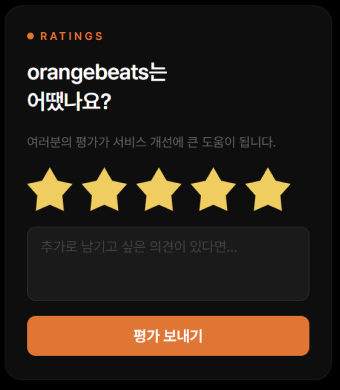
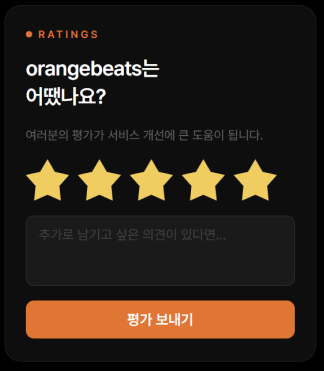
png수정

diff --git a/frontend/site/src/styles/site.css b/frontend/site/src/styles/site.css
@@ -128,13 +128,15 @@ button {
   align-items: center;
   gap: 8px;
   margin: 0;
-  padding: 4px 0;
+  padding: 0;
   border: none;
   background: transparent;
   color: #ffffff;
+  font-family: "Pretendard", "Gowun Dodum", sans-serif;
   font-size: 16px;
   font-weight: 500;
-  line-height: 1.2;
+  line-height: 27.2px;
+  height: 28px;
   letter-spacing: -0.32px;
   cursor: pointer;
   white-space: nowrap;
@@ -208,37 +210,31 @@ button {
   display: inline-flex;
   align-items: center;
   justify-content: center;
-  gap: 6px;
+  gap: 8px;
   margin: 0;
   box-sizing: border-box;
-  min-height: 28px;
-  padding: 4px 10px;
-  border: 1px solid rgba(255, 255, 255, 0.12);
-  border-radius: 999px;
-  background: rgba(255, 255, 255, 0.05);
+  height: 28px;
+  padding: 0;
+  border: none;
+  border-radius: 0;
+  background: transparent;
   color: #ffffff;
-  font-family: "Pretendard", sans-serif;
-  font-size: 12px;
+  font-family: "Pretendard", "Gowun Dodum", sans-serif;
+  font-size: 16px;
   font-weight: 500;
-  line-height: 1;
-  letter-spacing: -0.24px;
+  line-height: 27.2px;
+  letter-spacing: -0.32px;
   cursor: pointer;
   white-space: nowrap;
-  transition:
-    background 0.15s ease,
-    border-color 0.15s ease,
-    box-shadow 0.15s ease;
 }
 
-.site-header__spotify-connect:hover:not(:disabled) {
-  background: rgba(29, 185, 84, 0.16);
-  border-color: rgba(29, 185, 84, 0.55);
-  box-shadow: 0 0 0 1px rgba(29, 185, 84, 0.12);
+.site-header__spotify-connect:hover:not(:disabled) .site-header__spotify-connect-label {
+  text-decoration: underline;
+  text-underline-offset: 3px;
 }
 
-.site-header__spotify-connect:active:not(:disabled) {
-  background: rgba(29, 185, 84, 0.22);
-  border-color: rgba(29, 185, 84, 0.65);
+.site-header__spotify-connect:active:not(:disabled) .site-header__spotify-connect-label {
+  color: var(--figma-orange);
 }
 
 .site-header__spotify-connect:focus-visible {
@@ -254,7 +250,7 @@ button {
 .site-header__spotify-connect-label {
   display: inline-flex;
   align-items: center;
-  line-height: 1;
+  line-height: 27.2px;
   padding: 0;
 }
 
@@ -262,8 +258,8 @@ button {
   display: inline-flex;
   align-items: center;
   justify-content: center;
-  width: 20px;
-  height: 20px;
+  width: 18px;
+  height: 18px;
   border-radius: 50%;
   background: #1db954;
   flex-shrink: 0;
@@ -271,8 +267,8 @@ button {
 
 .site-header__spotify-mark svg {
   display: block;
-  width: 12px;
-  height: 12px;
+  width: 11px;
+  height: 11px;
   color: #ffffff;
 }
 
@@ -682,7 +678,7 @@ a.figma-spotify-connect {
 }
 
 .home-howto-shot--ratings {
-  --home-howto-w: 340px;
+  --home-howto-w: 324px;
 }
 
 .site-info {
@@ -5014,8 +5010,15 @@ a.figma-spotify-connect {
     top: auto;
   }
 
-  .site-header__spotify-trigger {
+  .site-header__spotify-trigger,
+  .site-header__spotify-connect {
     font-size: 14px;
+    line-height: 24px;
+    height: 24px;
+  }
+
+  .site-header__spotify-connect-label {
+    line-height: 24px;
   }
 
   .site-header__nav {

diff --git a/frontend/site/src/pages/HomePage.jsx b/frontend/site/src/pages/HomePage.jsx
@@ -5,8 +5,10 @@ import SiteHeader from "../components/SiteHeader.jsx";
 
 const SESSION_KEY = "ob_admin_key";
 /** How to use PNG 캐시 무효화 — 이미지 교체 시 값만 올리면 됨 */
-const HOWTO_IMG_V = "20260515figma5";
+const HOWTO_IMG_V = "20260515figma6";
 const howtoImg = (filename) => `/assets/home/${filename}?v=${HOWTO_IMG_V}`;
+const howtoImgSrcSet = (filename, filename2x) =>
+  `${howtoImg(filename)} 1x, ${howtoImg(filename2x)} 2x`;
 
 export default function HomePage() {
   const navigate = useNavigate();
@@ -145,7 +147,12 @@ export default function HomePage() {
         </div>
 
         <figure className="home-howto-shot home-howto-shot--ratings" data-node-id="333:244">
-          <img src={howtoImg("step-6-ratings.png")} alt="서비스 평점 남기기" />
+          <img
+            src={howtoImg("step-6-ratings.png")}
+            srcSet={howtoImgSrcSet("step-6-ratings.png", "[email redacted]")}
+            sizes="(max-width: 480px) 100vw, 324px"
+            alt="서비스 평점 남기기"
+          />
         </figure>
 
         <div className="home-copy home-copy--wide" data-node-id="341:240">